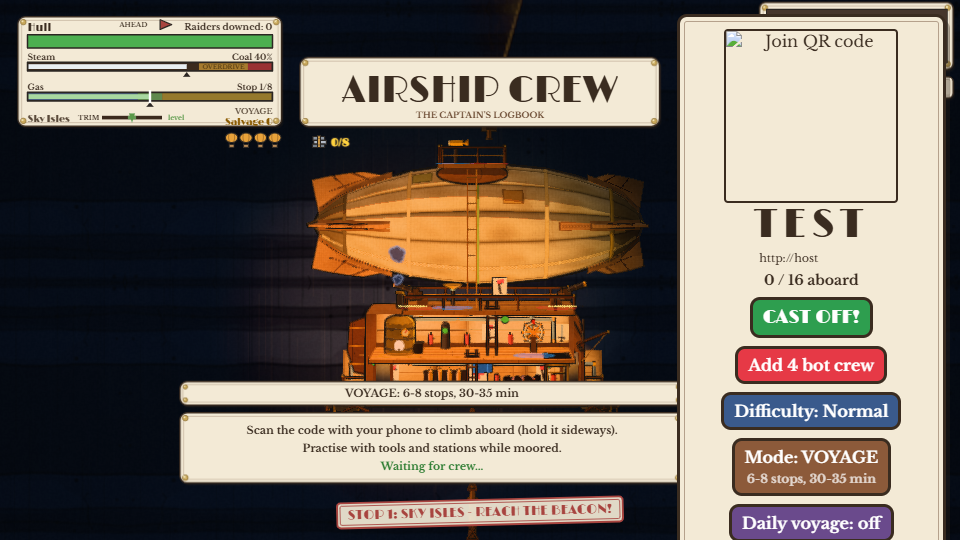
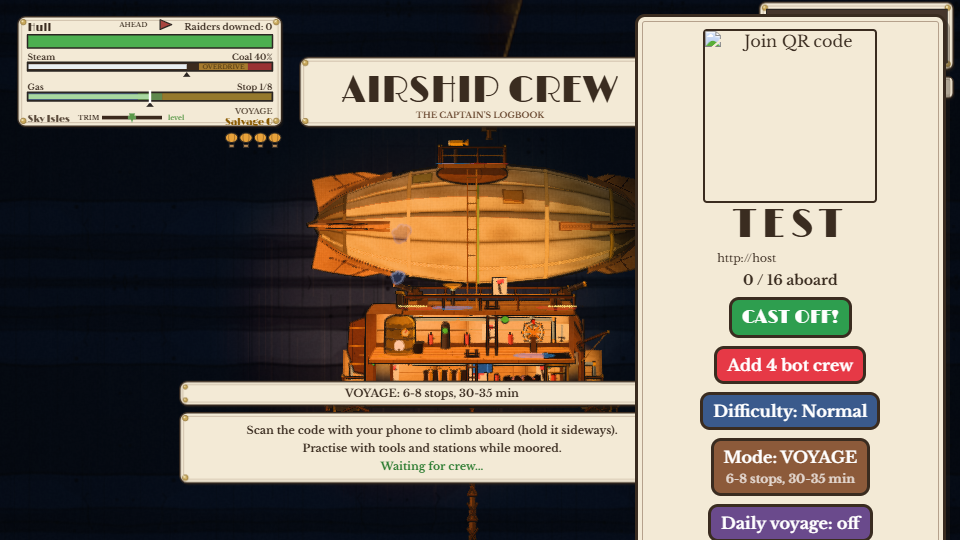
3D gate: Versus perf sample seeded and stepped (600 steps, the same arena and moment every run); 3D fixtures re-captured after F1/F5/F6
The Versus "regression" was not one. The missing central island: the arena is built from course.rand
after the lobby's hidden co-op first map; F1 gave the Sparrow's first stop wider caves (stop.slack),
so that map draws a different number of random numbers and the seeded screenshot got another
(equally valid) arena. Over 60 clocks the arenas are statistically the same before and after F1, and
the ships and Versus rules are unchanged. The 161 draw calls: the hosts step measured a free-running
page (random arena, bots wherever they were after 10 s), 115-160 calls run to run on 03721fd and on
main alike. Now it is seeded and stepped like the screenshots: 123-125 calls every run.

Fixtures: lobby (wider panel, no stop banner), flight/cave/kraken/drake/ring/storm (8 bots fly the
classic since F1; the F6 briefing card in the ring shot), versus (the reshuffled arena).
3D.md notes the open item: a Versus fight at close range is 150-220 calls on every commit, not gated.

diff --git a/3D.md b/3D.md
@@ -502,7 +502,7 @@ The perf governor then starts at that level (High = 3, Medium = 1) and never cli
 
 **The gate: `node tools/buildsim.mjs --check-3d [--all]`** (= `node tools/view3d-check.mjs [--all] [--quick] [--gl default|swiftshader] [--only rules,hosts,models,tiers,shots,fallback,offline,sub] [--shots DIR] [--verbose]`; its own server and Chrome, stopped by their PIDs). Steps:
 - `rules`: the table above.
-- `hosts`: host.html in the lobby with nothing in the address, a flight with 8 bots, a dark cave, the Kraken's lair, Versus, and a fight (gunship, fighters, bomber): 0 console errors, 0 game errors (a swallowed 3D error, `console.warn('view3d ...')`, counts too). Perf budgets at Medium: at most 150 draw calls, 450k triangles, 6 ms view JS. The HUD alignment (`V.alignError`) under 0.1 px with cinematics off.
+- `hosts`: host.html in the lobby with nothing in the address, a flight with 8 bots, a dark cave, the Kraken's lair, Versus, and a fight (gunship, fighters, bomber): 0 console errors, 0 game errors (a swallowed 3D error, `console.warn('view3d ...')`, counts too). Perf budgets at Medium: at most 150 draw calls, 450k triangles, 6 ms view JS. The HUD alignment (`V.alignError`) under 0.1 px with cinematics off. The Versus page is seeded and stepped (600 steps = the first 10 s of the match, the same arena and moment every run, about 124 calls): left free-running it measured a random arena (`course.js rng(Date.now())`) wherever the bots had got to, 115-160 calls run to run on every commit. **Open item:** once the two ships close to fighting range (15-40 s in), Versus is 150-220 calls at Medium (ships nearer the camera, damage, more shadow casters), on 03721fd as on later commits; that is not gated and wants its own perf pass.
 - `models`: `model.fallbacks` empty for the classic ship, the Sparrow, the 5 minimum builds, 10 generated ships and the live gunship.
 - `tiers`: the flight scene on High / Medium / Low (printed).
 - `shots`: six seeded scenes against `tools/fixtures/shots3d/*.png` (mean abs diff under 2 %, no 64 x 64 block over 12 %).
